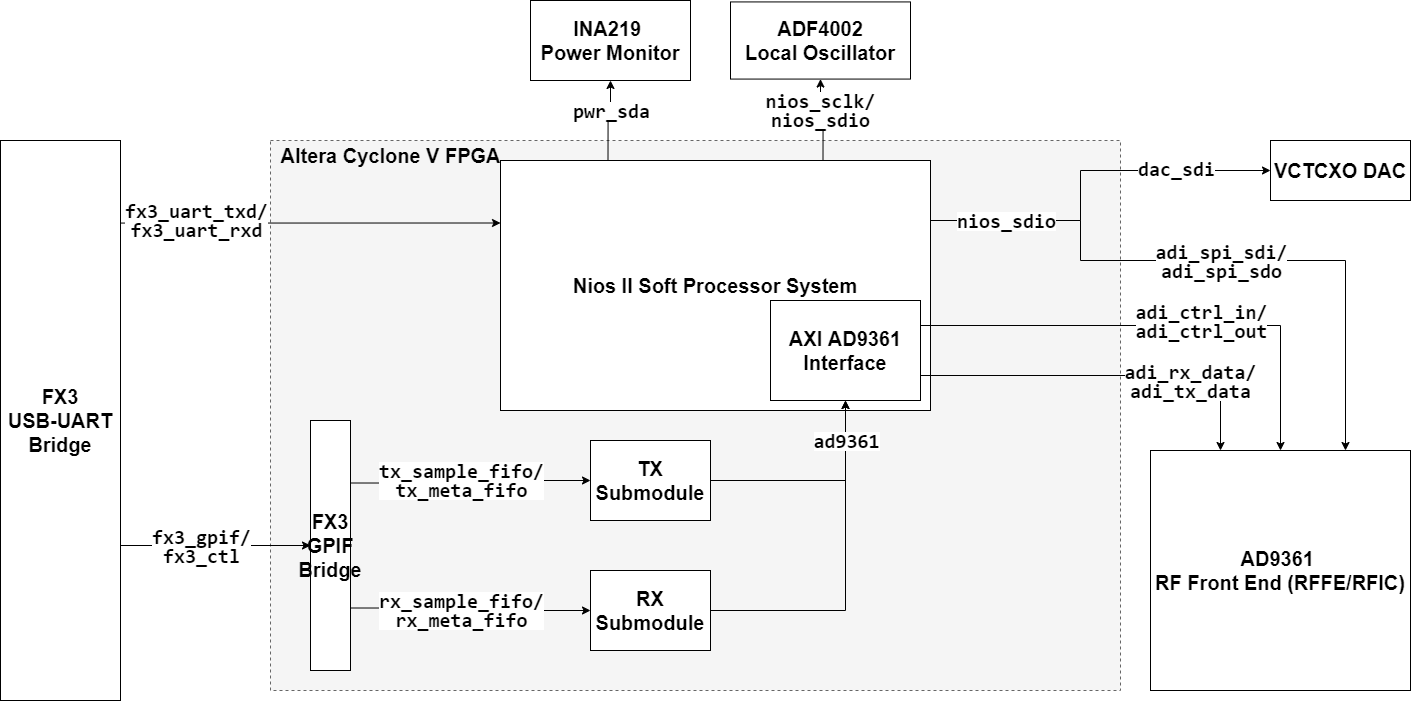
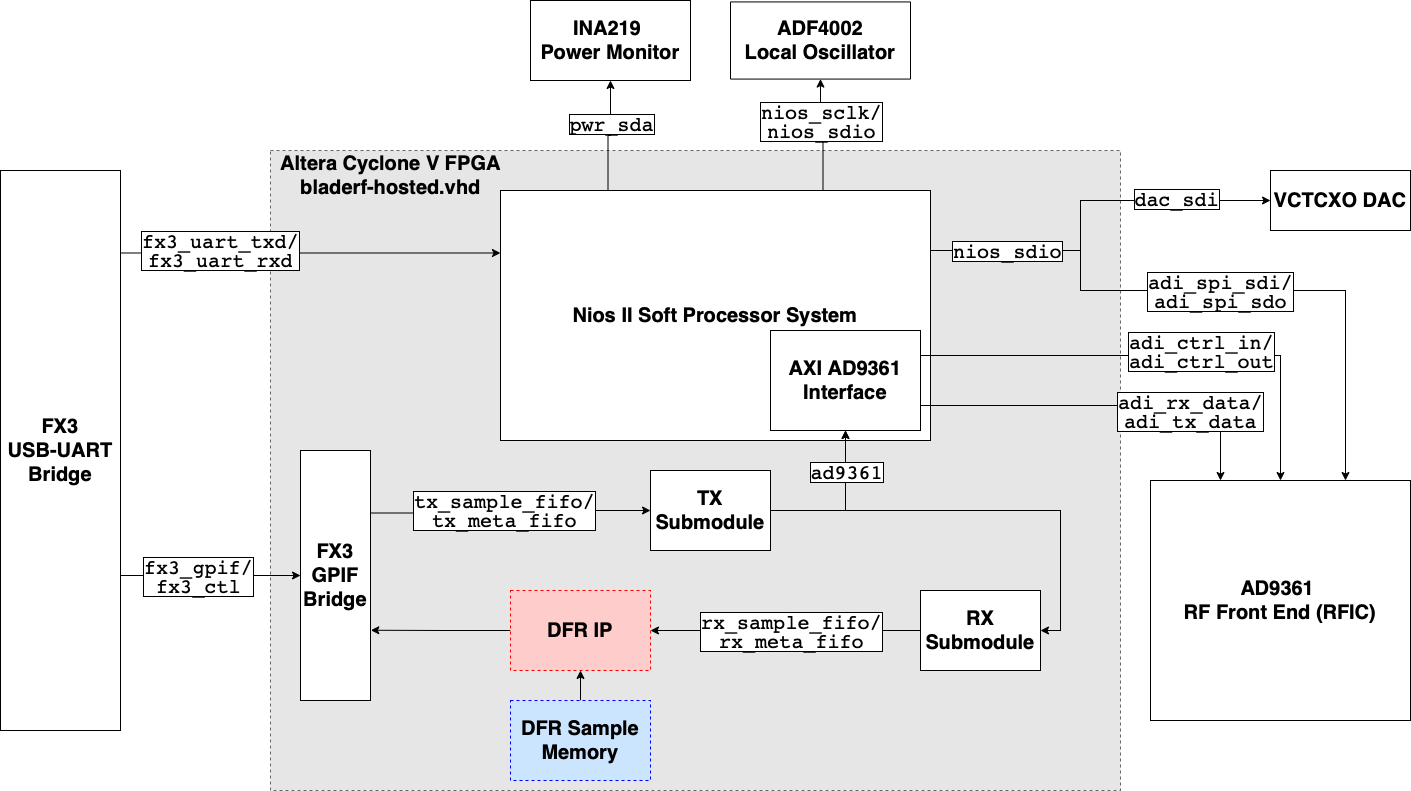
updated project README and images

diff --git a/README.md b/README.md
@@ -1,12 +1,55 @@
-# bladeRF FPGA Development Notes
+# bladeRF DFR Accelerator
 
+## Project Overview
 
+This paper aims to expand research on neural network enabled spectrum sensing by demonstrating a DFR implemented in a software-defined radio (SDR) to perform real-time spectrum sensing. The DFR algorithm was developed in software and evaluated against spectrum occupancy data collected by RWTH Aachen University. The DFR was then implemented on the bladeRF 2.0 SDR within its embedded field-programmable gate array (FPGA). 
+
+This project has important practical implications for custom FPGA logic design for emerging SDRs. Few resources exist that instruct new users how to develop and integrate their own logic into FPGA-enabled SDRs. This project demonstrates this process for the bladeRF, and can be generalized to other similar SDRs.
+
+## bladeRF Overview
+
+The bladeRF 2.0 micro is a mid-tier software defined radio developed by Nuand. The device is capable of transmitting and receiving RF data over two transmit and two receive antennas. 
+
+At the heart of this device is an Intel Altera Cyclone V FPGA. The FPGA acts as a bridge between AD9361 RFIC which receives and transmits RF data, and the host computer which performs digital signal processing on the in-phase and quadrature (I/Q) samples. The FPGA enables further configurability of this system by allowing a designer to implement custom logic in the FPGA architecture. Thus, a designer can create custom hardware units to perform filtering, modulation and cognitive radio tasks directly in the hardware. This is advantageous to designers because hardware implementations of these algorithms are likely to run faster than software implementations, in addition to consuming less power. 
+
+The Cypress FX3 USB 3.0 peripheral controller manages transactions between the SDR and the host computer. The host sends packetized data requests to the SDR to configure the frequency, voltage controlled oscillator (VCO), and gain settings. These data packets are translated from the USB protocol to UART and then interpreted by the FPGA which performs the hardware updates. The controller also reads the stream of I/Q sample data over the general programmable interface (GPIF) bus, and sends these to the host computer via the USB interface. 
+
+The last major component is the Analog Devices AD9361 RF transceiver. The transceiver is interfaced with four SMA antenna interfaces and supports multiple-input, multiple-output antenna configurations. The device is configured by the FPGA using the SPI interface which connects directly to its internal registers. The TX IQ and RX IQ interfaces carry the IQ samples between the transceiver and the FPGA.
+
+The challenge in developing custom hardware to run on the programmable logic of this device is the difficulty in learning and adapting custom hardware intellectual property (IP) to the bladeRF's FPGA architecture. [Nuand has provided documentation to explain the software and hardware features of their device](https://github.com/Nuand/bladeRF/wiki/FPGA-Development). However, designers must still spend time dissecting the extensive list of VHDL and Verilog source code that is used to program the FPGA in order to adequately integrate their own IP. The following sections will breakdown the bladeRF's FPGA architecture to provide readers with an understanding of the functional units in this SDR system.
+
+![](bladeRF-2.0-micro-block-diagram.png)
 
 ## bladeRF FPGA Development
 
-https://github.com/Nuand/bladeRF/wiki/FPGA-Development
+The bladeRF's bridge logic between the AD9361 RFIC and the host computer is implemented on the Intel Altera Cyclone V FPGA (5CEBA4F23C8). 
 
-### Overview
+In this architecture, UART packets are received from the external FX3 USB controller and processed by a Nios II soft processor system. If the packets contain configuration data, the soft processor translates these packets into configuration commands that get sent to the external power monitor, local oscillator, or RFIC. The processor system is able to translate this data using several internal IP cores that create I2C and SPI transactions. Otherwise if the packets contain data requests, the processor instructs its internal AD9361 interface controller to read data from the RFIC and send it to the receive first-in first-out queue (RX FIFO). 
+
+The RX FIFO acts as a buffer that synchronizes the rate at which the host is requesting RX samples to the rate that the RFIC is making them available. During its transition through the RX FIFO, the signed 12 bit in-phase and quadrature samples from the RFIC ADCs are sign-extended to 16 bits and concatenated to make 32 bit samples. These samples are sent to the host computer using the FX3 GPIF bridge module. 
+
+The bladeRF Python package is used to read the received samples from the bladeRF device. In addition to reading and writing data to the device, the package can also be used to program the FPGA with a custom bit file (.rbf).
+
+![](bladerf_micro_block_diagram.png)
+
+## Repository Overview
+- `python`
+    - contains the Python code used to create the spectrum occupancy data sets and to create the DFR models
+    - `spectrum_sensing_data.ipynb` is the Jupyter notebook used to create the spectrum occupancy data
+    - `narma10_dfr.ipynb` is the Jupyter notebook used to simulate the DFR with the NARMA10 time series
+    - `spectrum_sensing_dfr.ipynb` is the Jupyter notebook used to simulate the DFR with the spectrum occupancy data
+- `intel_hls`
+    - contains the C++ code used to synthesize the DFR IP Cores
+    - `hls_float_dfr_narma10` is the folder containing the C++ code used to synthesize the NARMA10 DFR core
+    - `hls_float_dfr_spectrum` is the folder containing the C++ code used to synthesize the spectrum sensing DFR core
+- `fpga`
+    - contains HDL code that was created to support this project
+    - `dfr_rom` contains the VHDL and Verilog code used to implement the I/Q data ROM
+    - `dfr_fsm` DFR finite state machine for the bladeRF architecture
+    - `bladerf-hosted.vhd` is the modified top level file for the bladeRF
+
+
+<!-- ## Development Notes
 - Hosted Image
     - Shuffles I/Q samples between the FX3 (via GPIF II interface) and RFIC
     - Configures the RFIC via SPI based on commands from FX3 via UART
@@ -21,12 +64,7 @@ https://github.com/Nuand/bladeRF/wiki/FPGA-Development
 - Custom Code
     - Should be placed between sample/meta FIFO blocks and iq correction blocks
 
-### Architecture Block Diagrams
-![](bladerf_micro_block_diagram.drawio.png)
-![](https://raw.githubusercontent.com/ifrasch/files/master/bladeRF-FPGA-samples-architecture.png)
-
-
-## Components
+## bladeRF FPGA Image Components
 
 ### rx_packet_generator
 RX Packet Generator
@@ -62,9 +100,11 @@ Reset Synchronizer
 Synchronizer
 
 ### handshake
-Handshakes
+Handshakes -->
 
-## ToDo
-- Convert IQ data to meet ADC range (12 bits)
-- Negative values are below half of the ADC range (values less than 2^6)
-- Might need to scale values to fit within the 12 bit range
+## Project To-Do List
+- Test bladeRF against internal sample ROM
+- Test bladeRF against real time I/Q samples
+- Optimize architecture for low power and low area
+- Add online learning via stochastic gradient descent
+- Implement a spiking neural network model
